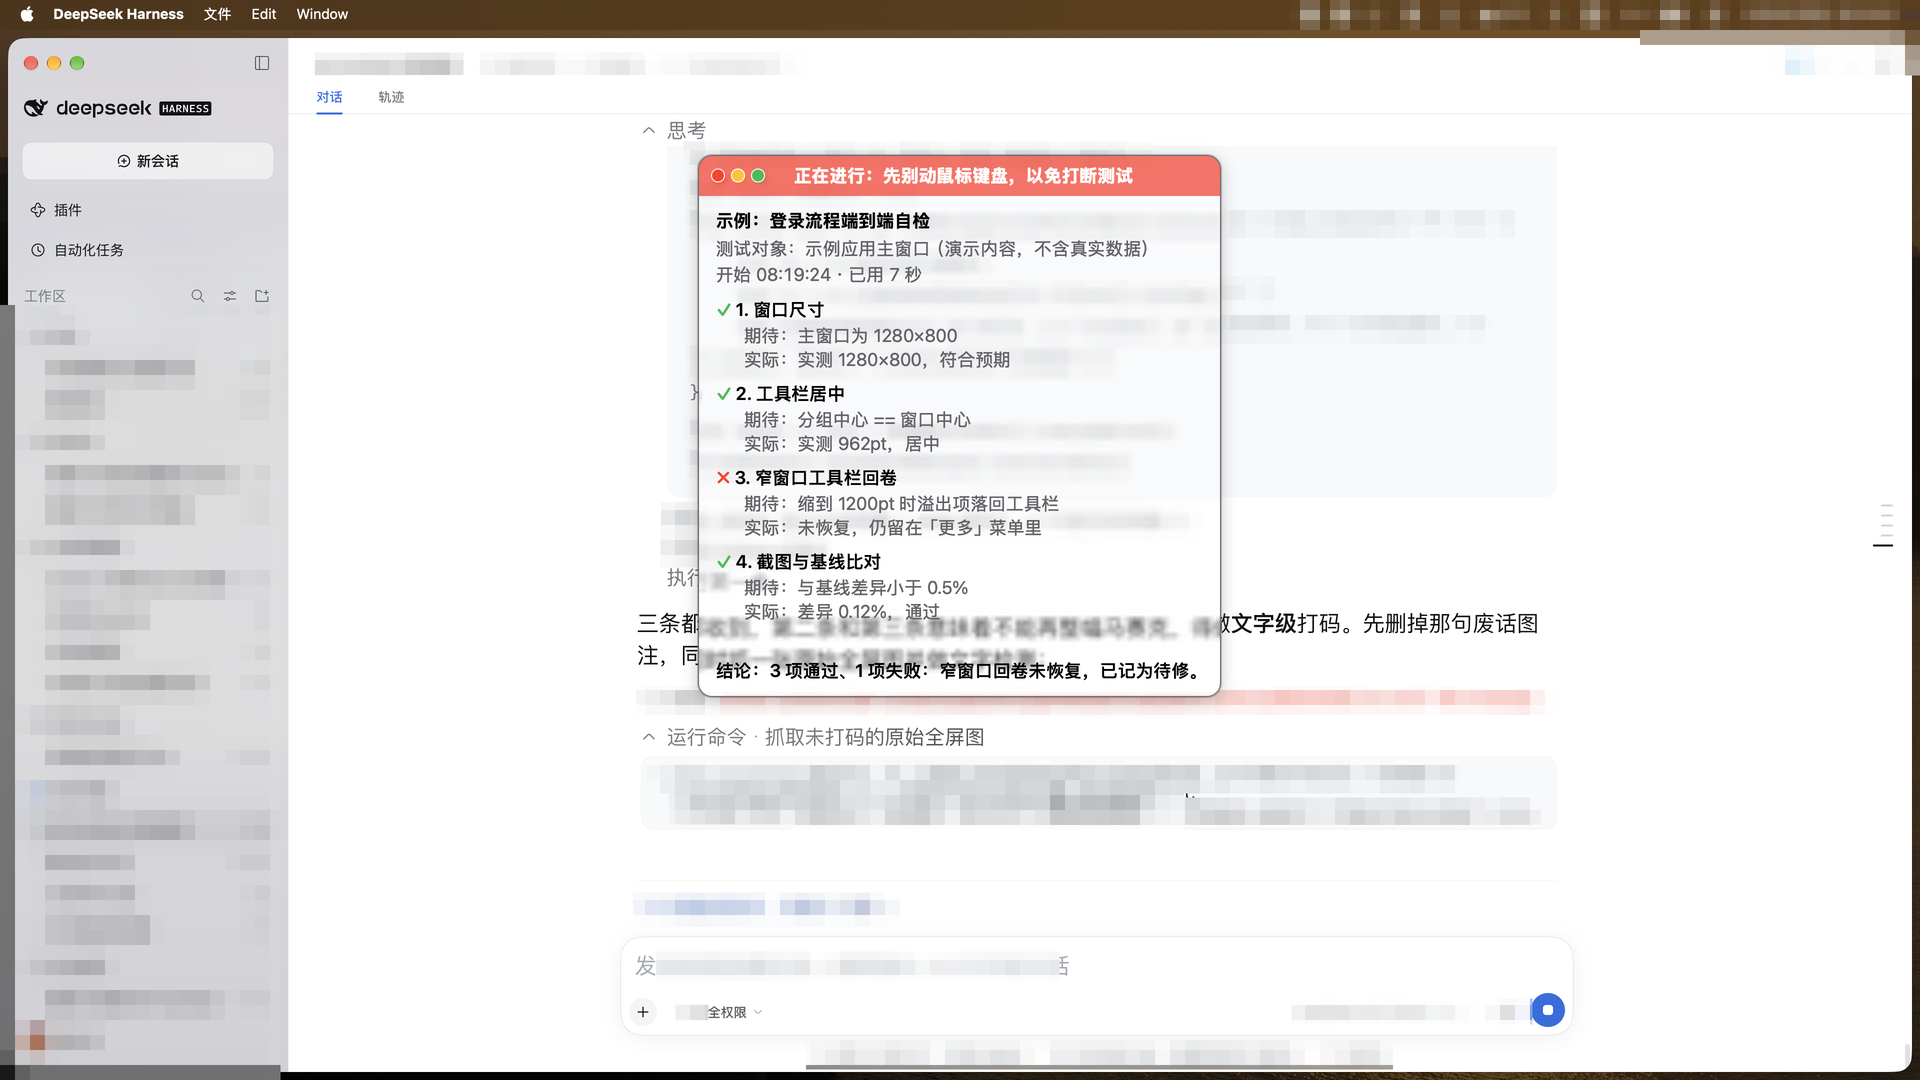
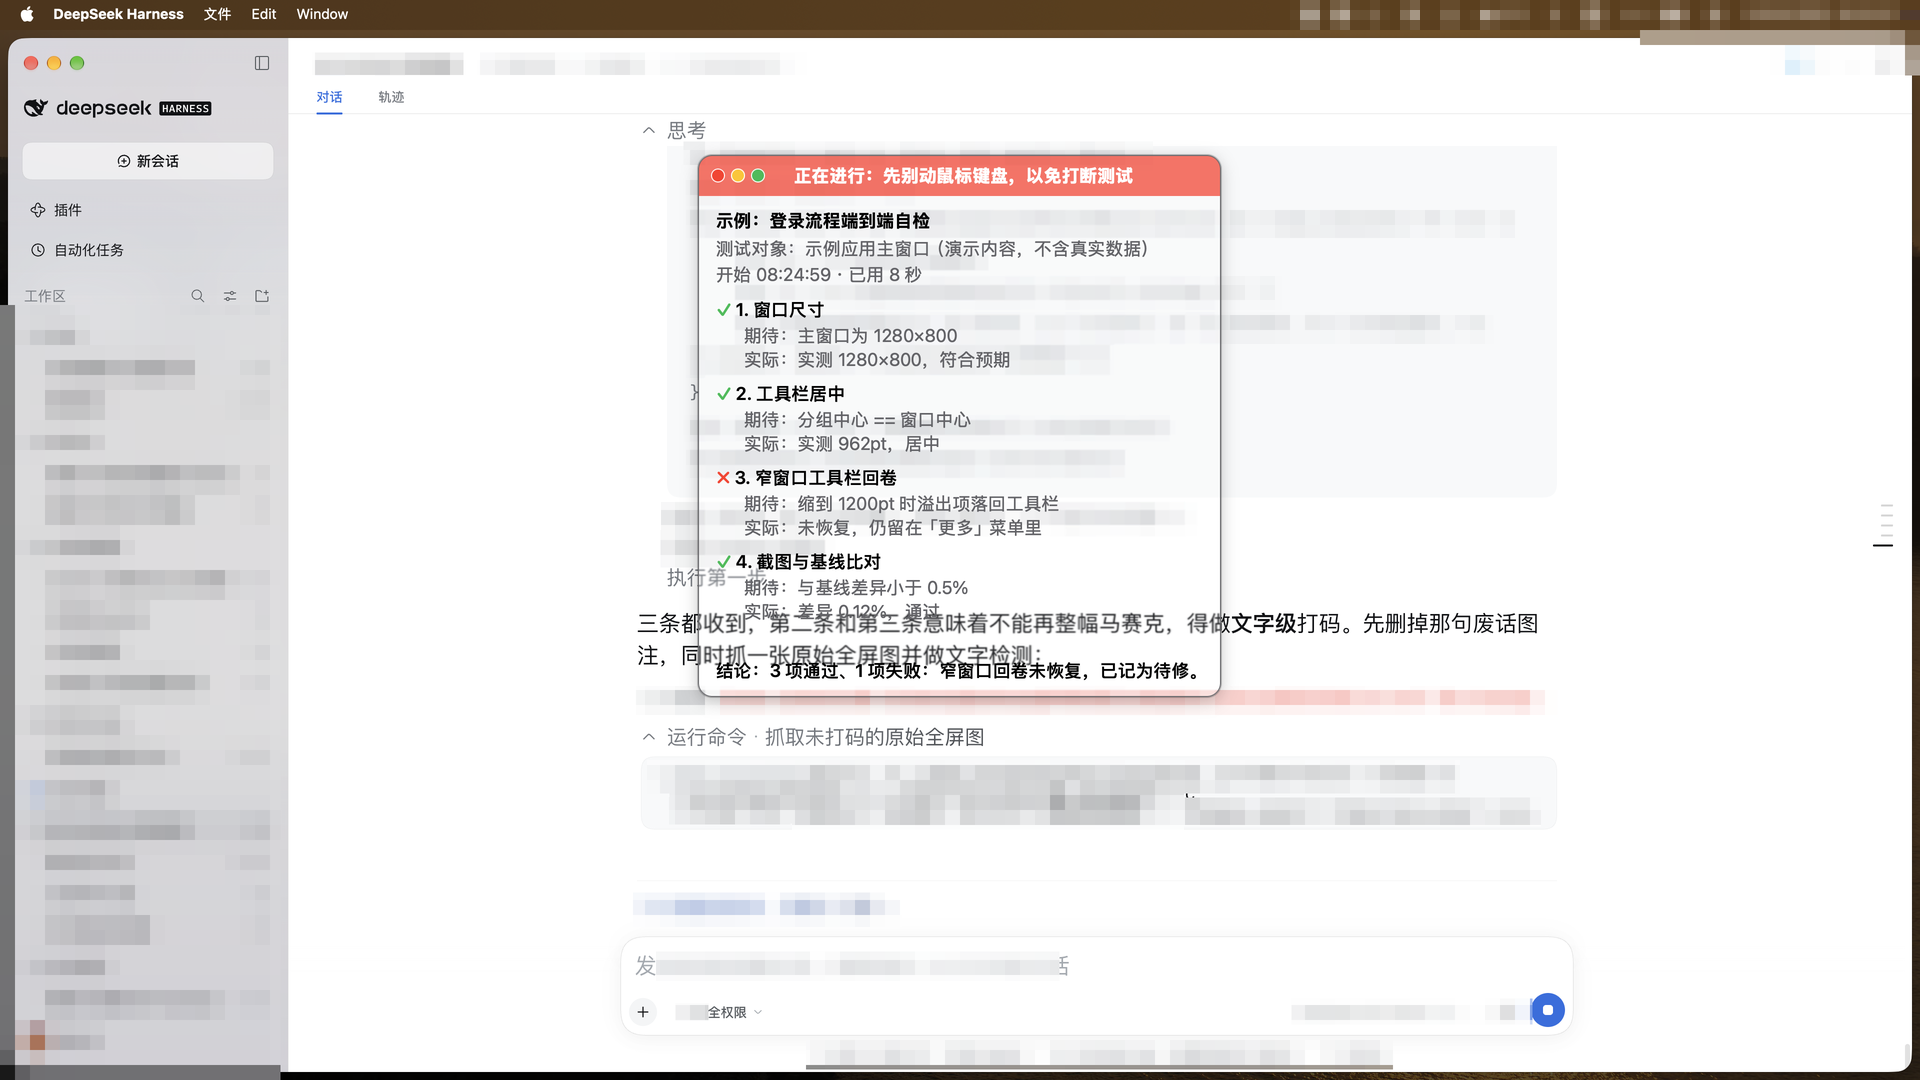
修底图清晰度的两个真因：采样分辨率与 NSImage 点尺寸
用户反馈"看不出浮层下面的文字"。排查后真正的病因不在面板底的不透明度：
- capturePanelArea 的采样输出曾是屏幕的 1/4（display.width / 4），那张小图贴到面板上
  被放大好几倍 —— 底图必然糊，把 alpha 从 0.20 降到 0.08 毫无改善即为证据。
  现改为全分辨率采样；亮度统计改为隔点取样（注意 stride 被局部变量遮蔽，须写 Swift.stride）
- NSImage(cgImage:size:) 曾传 .zero，把像素尺寸当点尺寸，图被压回一半再由屏幕拉一次，
  两次重采样同样发虚；现按 backingScaleFactor 折算成点
- 面板底不透明度下限定为 0.08；README 中英与 STATUS 同步，并记下这两个坑
- 展示图重拍：透过面板可完整读出被覆盖的文字，且与面板外同一行连续

Changed region(s): [[0.3438, 0.5194, 0.6562, 0.6417], [0.4062, 0.2444, 0.4375, 0.275]]

diff --git a/hud/testhud.swift b/hud/testhud.swift
@@ -20,7 +20,7 @@
 //     底部两个角已取消：面板高度随步骤增长、高度变化时顶边不动，贴底时下半截会被屏幕下缘切掉。
 //   · **大小**：随内容增减，到上限（屏幕可见高度的 62%）为止。
 //   · **滚动**：只有步骤区滚动，**头部固定**；新步骤进来自动滚到底。
-//   · **透明度**：面板底的不透明度**由环境反解**（见 Theme），下限 `Look.alphaFloor`（0.20）；
+//   · **透明度**：面板底的不透明度**由环境反解**（见 Theme），下限 `Look.alphaFloor`（0.08）；
 //     底图不模糊（2026-10-09 用户要求：要看得见被覆盖的文字）；
 //     方向与背景同向 —— 浅背景配更亮的面板 + 深字，深背景配更暗的面板 + 白字。
 //   · **层级**：`panel.level = .screenSaver` —— 压在所有窗口之上。
@@ -114,11 +114,12 @@ private enum Look {
     static let stepIndent: CGFloat = 28         // 步骤第二行（期待/实际）的缩进 = 行首 mark + 序号宽
 
     /// 面板底的**不透明度下限**（用在 `Theme.solveAlpha`）。
-    /// **2026-10-09 用户要求"提高透明度，要能看到被覆盖的文字"**，从 0.50 降到 0.20。
+    /// **2026-10-09 用户要求"提高透明度，要能看到被覆盖的文字"**：0.50 → 0.20 后实测仍偏淡
+    /// （20% 的面板底色把背景文字压灰），再降到 **0.08**。
     /// 要恢复"背景读不清"的老行为：这个值改回 0.50，并把下面 `backdropBlurSigma`
     /// 改回 34、`refreshTheme` 里的对比度压平改回 `max(0.12, 0.40 - spread * 0.70)`
     /// —— 三者是同一个取舍的三条腿，必须一起动。
-    static let alphaFloor: CGFloat = 0.20
+    static let alphaFloor: CGFloat = 0.08
     /// 面板底图的高斯模糊半径。**0 = 不模糊**：背景文字保持可辨（同上，用户 2026-10-09 要求；老值 34）。
     static let backdropBlurSigma: CGFloat = 0
 
@@ -234,7 +235,7 @@ enum ApplePalette {
 ///   · **面板底尽量透**（0.10 / 0.20 / 0.35 都试过）：密集文字背景上各会漏 1~3 行背景文字透上来，
 ///     而且漏的总是**刚打出来的内容** —— SCK 采样有 100~300ms 延迟，底图追不上正在被打印的字。
 ///
-/// 2026-10-09 用户重新拍了板：**要看得见被覆盖的文字** —— 透明度下限降到 `Look.alphaFloor`（0.20），
+/// 2026-10-09 用户重新拍了板：**要看得见被覆盖的文字** —— 透明度下限降到 `Look.alphaFloor`（0.08），
 /// 底图不再模糊、不再压平（见 `Look.backdropBlurSigma` 与 `refreshTheme` 里那两处）。
 /// 上面"接近全透不成立"那条结论，对**读清面板自己的字**仍然成立：深色密集背景下会抢读。
 /// 这是用户知情后选定的取舍，**不要再自行调回去**。
@@ -437,7 +438,7 @@ enum Theme {
     static func solveAlpha(over under: CGFloat, base: CGFloat, wanted: CGFloat) -> CGFloat {
         guard abs(base - under) > 0.01 else { return 0.75 }
         // **2026-10-09 用户要求"提高透明度，要能看到被覆盖的文字"**，下限从 0.50 降到
-        // `Look.alphaFloor`（0.20）。老值 0.50 的理由是"底图上残余的文字会和面板文字抢读"；
+        // `Look.alphaFloor`（0.08）。老值 0.50 的理由是"底图上残余的文字会和面板文字抢读"；
         // 那条取舍现在被推翻 —— 恢复"看不清背景"的老行为，把 `Look.alphaFloor` 改回 0.50，
         // 并把底图的模糊与压平一起调回去（见 `refreshTheme` 里那两处）。
         return min(0.98, max(Look.alphaFloor, (wanted - under) / (base - under)))
@@ -1014,10 +1015,12 @@ final class HUD: NSObject, NSApplicationDelegate {
         let previousSpread = spread
         let previousSize = sampledSize
         let size = frame.size
+        /// 快照像素尺寸 ÷ 它 = 点尺寸（用在下面 `NSImage(cgImage:size:)` 那处）
+        let scale = (panel.screen ?? NSScreen.main)?.backingScaleFactor ?? 2
 
         // 采样放**后台线程**：ScreenCaptureKit 的 async 调用和 @MainActor 会互等 ——
         // 症状是一条日志都不出、配色永远停在初始值（踩过）。采完再回主线程套用。
-        Task.detached { [rect, displayID, exclude, previous, previousSpread, previousSize, size] in
+        Task.detached { [rect, displayID, exclude, previous, previousSpread, previousSize, size, scale] in
             guard let (luminance, spread, meanColor, snapshot) =
                 await Self.capturePanelArea(rect, displayID: displayID, excluding: exclude) else {
                 FileHandle.standardError.write("testhud: sample FAILED\n".data(using: .utf8)!); return }
@@ -1032,7 +1035,14 @@ final class HUD: NSObject, NSApplicationDelegate {
                 self.spread = spread
                 self.backdropColor = meanColor
                 self.sampledSize = size
-                if let snapshot { self.blurView.image = NSImage(cgImage: snapshot, size: .zero) }
+                if let snapshot {
+                    // **点尺寸必须按 scale 折算**。`size: .zero` 会把像素尺寸当成点尺寸，
+                    // 于是这张 2x 的图先被视图压回一半、再由屏幕拉一次 —— 两次重采样，
+                    // 背景文字就发虚发淡了（2026-10-09 与采样分辨率一起修掉）。
+                    self.blurView.image = NSImage(cgImage: snapshot,
+                                                  size: NSSize(width: CGFloat(snapshot.width) / scale,
+                                                               height: CGFloat(snapshot.height) / scale))
+                }
                 self.applyPalette()
             }
         }
@@ -1047,7 +1057,9 @@ final class HUD: NSObject, NSApplicationDelegate {
             let mine = content.windows.filter { $0.windowID == CGWindowID(windowNumber) }
             let filter = SCContentFilter(display: display, excludingWindows: mine)
 
-            let outW = max(64, display.width / 4), outH = max(64, display.height / 4)
+            // 采样**必须全分辨率**。曾经是 `display.width / 4`，那张小图贴到面板上要被放大好几倍 ——
+            // 背景文字糊成一团，"看得见被覆盖的文字"根本无从谈起（2026-10-09 用户要求后实测定位到此）。
+            let outW = max(64, display.width), outH = max(64, display.height)
             let configuration = SCStreamConfiguration()
             configuration.width = outW
             configuration.height = outH
@@ -1064,8 +1076,12 @@ final class HUD: NSObject, NSApplicationDelegate {
             var sum = 0.0, count = 0
             var sumR = 0.0, sumG = 0.0, sumB = 0.0        // 顺带量出这块区域的颜色
             var hist = [Int](repeating: 0, count: 64)      // 以及它的明暗跨度
-            for y in y0..<y1 {
-                for x in x0..<x1 {
+            // 全分辨率下逐像素扫会白烧 CPU（4K 面板区域可达数百万像素）：**隔点取样**，
+            // 统计量（均值/跨度/平均色）的精度完全够用 —— 这些数只用来决定浅深档与配色。
+            // 注意写 `Swift.stride`：上面 `let stride = image.bytesPerRow` 把这个名字遮蔽了，
+            // 不写模块名会报 "cannot call value of non-function type 'Int'"。
+            for y in Swift.stride(from: y0, to: y1, by: 2) {
+                for x in Swift.stride(from: x0, to: x1, by: 2) {
                     let o = y * stride + x * bpp
                     let r = Double(data[o + 2]) / 255, g = Double(data[o + 1]) / 255, b = Double(data[o]) / 255
                     let v = 0.2126 * r + 0.7152 * g + 0.0722 * b

diff --git a/README.md b/README.md
@@ -114,7 +114,7 @@ The band ignores the light/dark split and follows the state: **running = red `#F
 
 The step marks are `✓` / `✗` / `⏳` / `•` and **not** `✅` / `❌`: colour emoji ignore `foregroundColor` and paint colours of their own, outside the swatch, so the glyph had to change. By the same token, emoji the caller (an agent) writes into a step name, expect or actual are not governed by `ApplePalette`. White on red vs black on green are deliberately not symmetric in contrast — a **knowing aesthetic trade-off**, so do not "fix" it into a contrast-maximising pick.
 
-**Only two things are still computed**: which appearance to use (`backdrop > 0.35`) and the panel background's opacity (`solveAlpha`, floor **0.20**). The user explicitly kept **translucency**, so white over a backdrop does not measure as `#FFFFFF`; the rule is therefore "**the value comes from the swatch**", not "the rendered pixel equals it". The backdrop is sampled every 0.7 s — *the rectangle the panel is about to cover*, and only that rectangle, plus immediately whenever the frontmost app changes or the panel resizes or changes content — yielding an average luminance and a light/dark spread (p10–p90), which decide the appearance. The panel's ground is **a snapshot of what it covers** (no blur, no contrast flattening): the covered text stays legible — the effect the user asked for on 2026-10-09, at the cost of competing with the panel's own text over dense backdrops.
+**Only two things are still computed**: which appearance to use (`backdrop > 0.35`) and the panel background's opacity (`solveAlpha`, floor **0.08**). The user explicitly kept **translucency**, so white over a backdrop does not measure as `#FFFFFF`; the rule is therefore "**the value comes from the swatch**", not "the rendered pixel equals it". The backdrop is sampled every 0.7 s — *the rectangle the panel is about to cover*, and only that rectangle, plus immediately whenever the frontmost app changes or the panel resizes or changes content — yielding an average luminance and a light/dark spread (p10–p90), which decide the appearance. The panel's ground is **a snapshot of what it covers** (no blur, no contrast flattening): the covered text stays legible — the effect the user asked for on 2026-10-09, at the cost of competing with the panel's own text over dense backdrops.
 
 The old "chameleon" colour functions (`banner()` / `tinted()` / `textColor()`) are still in the source and no longer called; they necessarily compute colours outside the swatch, in direct conflict with the rule above, so **ask the user before reviving them**.
 
@@ -186,7 +186,7 @@ The progress file schema is deliberately plain JSON, so anything can write it:
 - **The band's left 78 points are reserved for the three dots**; the band text starts after them, so a long status line cannot run into the dots.
 - Dragging leaves the panel **wherever you put it** — `layout()` only keeps the top edge fixed when the height changes, it never snaps back to a candidate position — until the panel process restarts. The drag is clamped to the visible area of the screen the mouse is on: otherwise the panel can be dropped into the dead space between two displays, where nothing is visible and it can never be clicked again.
 - On a screen already covered by full-screen windows, every corner overlaps something; `auto` then falls back to the top-left corner. Pass an explicit `anchor` to keep the panel away from the area you are testing.
-- **The panel's own text gets weaker in the worst case**: over dense dark text (a terminal full of output, say) it competes with the text underneath — the panel floor is only **0.20** and the backdrop is no longer blurred, which is exactly what the user asked for on 2026-10-09 ("the covered text must stay visible"). To go back to "the backdrop reads as texture, the panel's text stays steadier": set `Look.alphaFloor` back to 0.50 and `Look.backdropBlurSigma` back to 34.
+- **The panel's own text gets weaker in the worst case**: over dense dark text (a terminal full of output, say) it competes with the text underneath — the panel floor is only **0.08** and the backdrop is no longer blurred, which is exactly what the user asked for on 2026-10-09 ("the covered text must stay visible"). To go back to "the backdrop reads as texture, the panel's text stays steadier": set `Look.alphaFloor` back to 0.50 and `Look.backdropBlurSigma` back to 34.
 - **The panel's strings are Chinese** (the control banner, `测试对象：`, `期待：`, `实际：`, `结论：`). Nothing in the panel is localised; a run's own title and step text are whatever the caller wrote.
 
 ## License

diff --git a/README.zh.md b/README.zh.md
@@ -114,7 +114,7 @@ testhud status
 
 行首符号用 `✓` / `✗` / `⏳` / `•` 而**不是** `✅` / `❌`：彩色 emoji 无视 `foregroundColor`，会画出自己那套色板外的颜色，只能换字符。同理，调用方（agent）写进步骤名 / 期待 / 实际的文字若自带 emoji，那些字形不受 `ApplePalette` 管。红带配白字、绿带配黑字的对比度并不对称，这是**知情的审美取舍**，不要把它"修"成按对比度挑。
 
-**仍然"算出来"的只有两件事**：走浅色系还是深色系（`backdrop > 0.35`），以及面板底的不透明度（`solveAlpha`，下限 **0.20**）。用户明确选择保留**半透明**，所以「纯白」叠上背景后屏幕上量到的并不是 `#FFFFFF` —— 这条规矩按**取值来自色板**落实，而不是"呈现色就等于色板色"。背景采样每 0.7 秒量一次**它即将盖住的那块矩形**（前台应用切换、面板尺寸或内容变化时立刻重采），取平均亮度与明暗跨度（p10~p90），由这两个数决定浅深档。面板底是**它所覆盖区域的一张快照**（不模糊、不压平）：被覆盖的文字原样可见 —— 这是用户 2026-10-09 明确要的效果，代价是密集背景下面板自己的字会和底下的字抢读。
+**仍然"算出来"的只有两件事**：走浅色系还是深色系（`backdrop > 0.35`），以及面板底的不透明度（`solveAlpha`，下限 **0.08**）。用户明确选择保留**半透明**，所以「纯白」叠上背景后屏幕上量到的并不是 `#FFFFFF` —— 这条规矩按**取值来自色板**落实，而不是"呈现色就等于色板色"。背景采样每 0.7 秒量一次**它即将盖住的那块矩形**（前台应用切换、面板尺寸或内容变化时立刻重采），取平均亮度与明暗跨度（p10~p90），由这两个数决定浅深档。面板底是**它所覆盖区域的一张快照**（不模糊、不压平）：被覆盖的文字原样可见 —— 这是用户 2026-10-09 明确要的效果，代价是密集背景下面板自己的字会和底下的字抢读。
 
 源码里仍留着旧的"变色龙"取色函数（`banner()` / `tinted()` / `textColor()`），已无调用方；它们必然算出色板之外的颜色，与上面的规矩直接冲突，**恢复前先问用户**。
 
@@ -185,7 +185,7 @@ bin/testhud.js    同一套核心的命令行
 - **色带左端 78 点留给那三个圆点**，色带文字从那里往右排 —— 长短不一的提示语不会压到圆点上。
 - 手动拖动会把面板**留在你放的位置**（`layout()` 只在高度变化时保持顶边，不会把它拉回候选位置），直到面板进程重启为止。拖动被夹在鼠标所在那块屏的可见范围内 —— 否则会被拖到两块显示器之间的空白地带，那里什么都看不见，也就再也点不回来了。
 - 屏幕被全屏窗口占满时，四个角都压着东西，`auto` 会退到左上角；想让开正在测的区域就显式传 `anchor`。
-- **最坏情况下面板文字会变弱**：背景是密集的深色文字时（例如整屏终端输出），面板自己的字会和底下的字抢读 —— 面板底不透明度下限只有 **0.20**、底图也不做模糊，这是用户 2026-10-09 明确要的"要能看到被覆盖的文字"。想回到"背景读不清、面板字更稳"的老行为：`Look.alphaFloor` 改回 0.50、`Look.backdropBlurSigma` 改回 34。
+- **最坏情况下面板文字会变弱**：背景是密集的深色文字时（例如整屏终端输出），面板自己的字会和底下的字抢读 —— 面板底不透明度下限只有 **0.08**、底图也不做模糊，这是用户 2026-10-09 明确要的"要能看到被覆盖的文字"。想回到"背景读不清、面板字更稳"的老行为：`Look.alphaFloor` 改回 0.50、`Look.backdropBlurSigma` 改回 34。
 - **面板文案是中文**（控制权色带、`测试对象：`、`期待：`、`实际：`、`结论：`），没有做本地化；标题与步骤文字原样显示调用方写的内容。
 
 ## 许可
